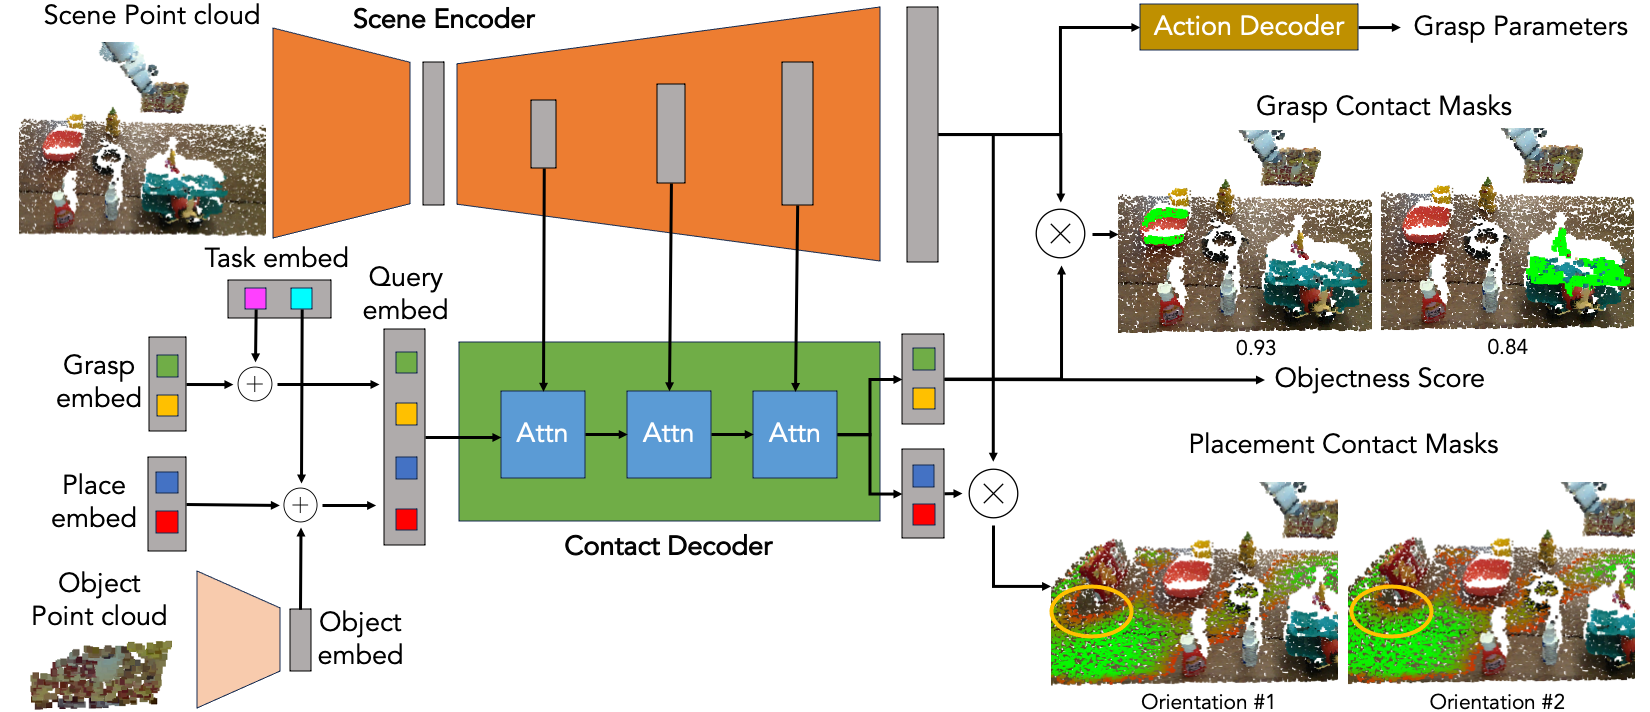
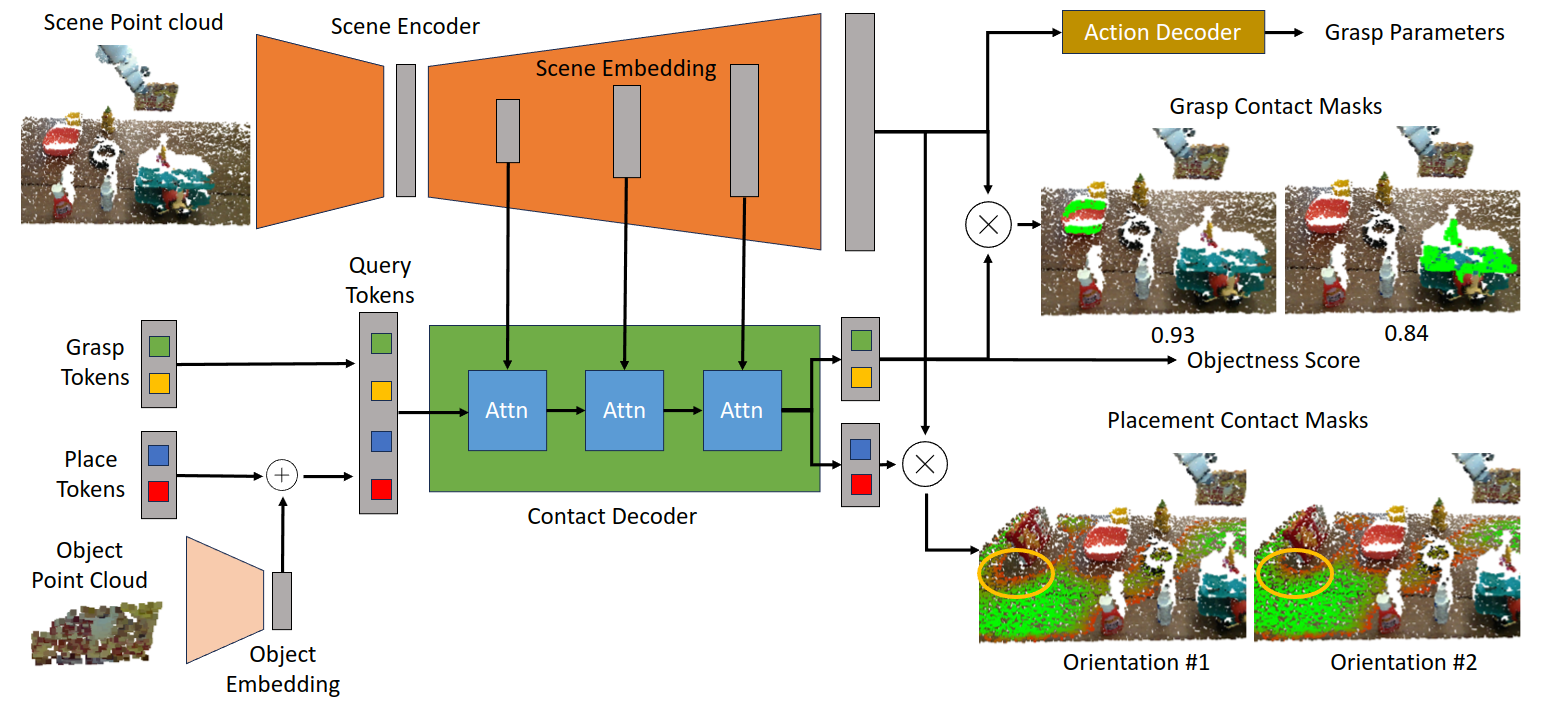
Update architecture figures

Changed region(s): [[0.0, 0.0, 0.9968, 1.0], [0.3115, 0.1494, 0.3426, 0.239], [0.4049, 0.239, 0.4361, 0.2688]]

diff --git a/index.html b/index.html
@@ -73,10 +73,16 @@
     <div class="container">
       <center><h2 class="sectitle">Network Architecture</h2></center>
       <p class="text">
-        M2T2 uses cross-attention between learned embeddings and multi-scale point cloud features to produce per-point contact masks, indicating where to make contact for picking and placing actions.
+        M2T2 uses cross-attention between learned embeddings and multi-scale point cloud features to produce per-point contact masks, indicating where to make contact for picking and placing actions. Our general pick-and-place network produces G object-specific grasping masks, 1 for each graspable object in the scene, and P orientation-specific placement masks, 1 for each discretized planar rotation. 6-DoF gripper poses are then reconstructed using the contact masks and the point cloud.
       </p>
       <div class="container">
         <img src="images/network.png"></img>
+      </div>
+      <p class="text">
+        M2T2 can also take other conditional inputs (e.g. language goal) to predict task-specific grasps/placements. Below is the architecture for M2T2 trained on RLBench, which is conditioned on language tokens embedded by a pretrained CLIP model.
+      </p>
+      <div class="container">
+        <img src="images/rlbench_network.png"></img>
       </div>
     </div>
 
